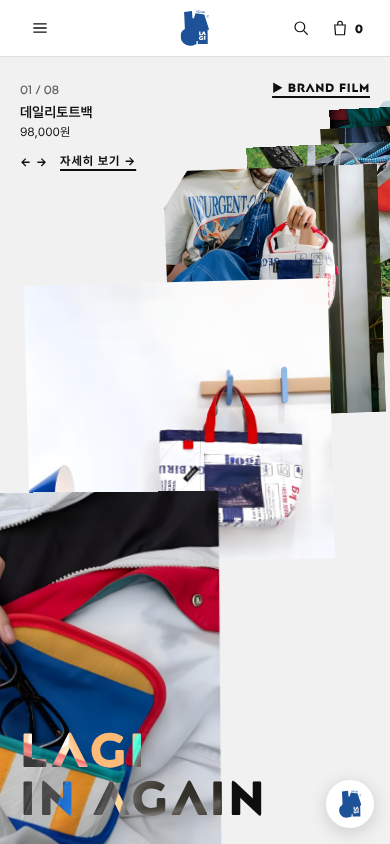
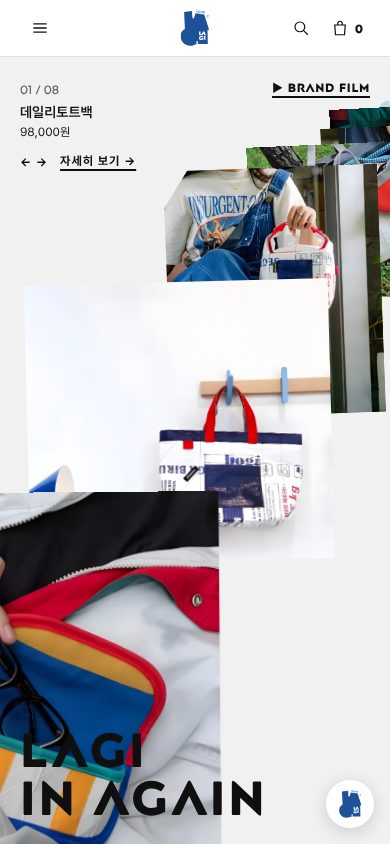
Home: brand intro motion before the page; plain black wordmark
On black, the eleven pieces of the LAGI emblem fly in and assemble into
the official mark, the letters cut in, 'LAGI in AGAIN' arrives, then a
tap (or Enter) lifts the black sheet to reveal the home page. Once per
visit; no motion with reduced-motion settings. The 'LAGI in AGAIN'
wordmark on the home page is now plain black instead of a difference
blend.

Claude-Session: https://claude.ai/code/session_015tYqeF95fcTMgYoMnwU8HY

Changed region(s): [[0.0615, 0.8626, 0.4615, 0.9858], [0.4615, 0.9242, 0.5846, 0.9858]]

diff --git a/src/v3/IntroMotion.tsx b/src/v3/IntroMotion.tsx
@@ -1,0 +1,111 @@
+import { useEffect, useState } from 'react';
+import { createPortal } from 'react-dom';
+import { EMBLEM_BODY, EMBLEM_CUTOUT, EMBLEM_VIEWBOX } from '@/components/logoPaths';
+
+const SEEN = 'lagi-intro-seen';
+
+/** Where each emblem piece flies in from (dx, dy in viewBox units, rotation) — spread around the mark. */
+const FROM = [
+  [-260, -180, -28],
+  [220, -210, 24],
+  [-300, 40, 18],
+  [280, 60, -22],
+  [-180, 260, 30],
+  [200, 250, -16],
+  [0, -300, 12],
+  [-320, -60, -36],
+  [320, -40, 32],
+  [-60, 300, -20],
+  [90, 320, 26],
+];
+
+// eslint-disable-next-line react-refresh/only-export-components
+export function introSeen() {
+  try {
+    return sessionStorage.getItem(SEEN) === '1';
+  } catch {
+    return false;
+  }
+}
+
+/**
+ * The brand motion before the home page: on black, the eleven pieces of the LAGI emblem fly in and
+ * assemble (the finished mark is the official emblem, unaltered), the L Λ G I letters cut in, the
+ * line "LAGI in AGAIN" arrives, then a tap anywhere lifts the black sheet to reveal the home page.
+ * Shown once per visit.
+ */
+export function IntroMotion({ onDone }: { onDone: () => void }) {
+  const [leaving, setLeaving] = useState(false);
+  const [ready, setReady] = useState(false);
+
+  useEffect(() => {
+    document.body.style.overflow = 'hidden';
+    const t = window.setTimeout(() => setReady(true), 2600);
+    return () => {
+      window.clearTimeout(t);
+      document.body.style.overflow = '';
+    };
+  }, []);
+
+  const enter = () => {
+    if (leaving) return;
+    setLeaving(true);
+    try {
+      sessionStorage.setItem(SEEN, '1');
+    } catch {
+      // private mode: the intro simply shows again next visit
+    }
+    window.setTimeout(onDone, 900);
+  };
+
+  useEffect(() => {
+    const onKey = (e: KeyboardEvent) => {
+      if (e.key === 'Enter' || e.key === ' ' || e.key === 'Escape') {
+        e.preventDefault();
+        enter();
+      }
+    };
+    window.addEventListener('keydown', onKey);
+    return () => window.removeEventListener('keydown', onKey);
+  });
+
+  return createPortal(
+    <div
+      className={`v3 intro fixed inset-0 z-[400] flex cursor-pointer select-none flex-col items-center justify-center bg-[#0b0b0b] text-white ${leaving ? 'intro-leave' : ''}`}
+      onClick={enter}
+      role="button"
+      tabIndex={0}
+      aria-label="LAGI — 화면을 눌러 시작하세요"
+      data-testid="intro"
+    >
+      <svg viewBox={EMBLEM_VIEWBOX} className="intro-mark h-[38vh] max-h-[340px] min-h-[180px] w-auto overflow-visible" aria-hidden="true">
+        {EMBLEM_BODY.map((d, i) => {
+          const [dx, dy, r] = FROM[i % FROM.length];
+          return (
+            <path
+              key={d}
+              d={d}
+              fill="#1d5198"
+              className="intro-piece"
+              style={{ '--dx': `${dx}px`, '--dy': `${dy}px`, '--r': `${r}deg`, animationDelay: `${120 + i * 70}ms` } as React.CSSProperties}
+            />
+          );
+        })}
+        {/* The letters are cut out of the mark; on black, drawing them in the background colour is the same cut. */}
+        {EMBLEM_CUTOUT.map((d, i) => (
+          <path key={d} d={d} fill="#0b0b0b" className="intro-cut" style={{ animationDelay: `${1350 + i * 140}ms` }} />
+        ))}
+      </svg>
+      <p className="t-h1 t-mark intro-line mt-8 text-white" style={{ animationDelay: '1900ms' }}>
+        LAGI in AGAIN
+      </p>
+      <p className="t-caption kr intro-line mt-2 text-white/70" style={{ animationDelay: '2150ms' }}>
+        다시 쓰임을 얻은 물건들을 발견하고 소개합니다
+      </p>
+      <p className={`t-label t-mark absolute bottom-10 text-white transition-opacity duration-700 ${ready ? 'intro-hint opacity-100' : 'opacity-0'}`}>
+        화면을 눌러 시작하세요 · Click to enter
+      </p>
+    </div>,
+    document.body,
+  );
+}

diff --git a/src/v3/pages/Home.tsx b/src/v3/pages/Home.tsx
@@ -2,6 +2,7 @@ import { useState } from 'react';
 import { Link } from 'react-router-dom';
 import { CurvedGallery } from '../CurvedGallery';
 import { BrandFilmOverlay } from '../BrandFilm';
+import { IntroMotion, introSeen } from '../IntroMotion';
 import { OFFICIAL_LINKS, useImageRatios, useRealProducts } from '../data';
 import { ProductCard, cleanImage } from '../ProductCard';
 
@@ -29,6 +30,8 @@ export default function Home() {
   const ratios = useImageRatios(products);
   const ready = products.length > 0 && products.every((p) => ratios[p.id]);
   const [film, setFilm] = useState(false);
+  // The brand motion plays once per visit before the home page.
+  const [intro, setIntro] = useState(() => !introSeen());
   const byId = (id: string) => products.find((p) => p.id === id);
   const archive = [
     { to: '/why', en: 'Why LAGI', kr: '라기가 제품을 고르는 네 가지 기준', img: byId('plano-bag')?.images[0], tone: 'photo' },
@@ -38,6 +41,7 @@ export default function Home() {
 
   return (
     <div>
+      {intro && <IntroMotion onDone={() => setIntro(false)} />}
       {/* 1 · The curved gallery, one screen (vertical scroll moves the page; drag sideways to turn it). */}
       <section className="relative h-[100svh] overflow-hidden bg-[var(--c-gray)]" aria-label="LAGI 제품 갤러리">
         {ready && <CurvedGallery products={products} ratios={ratios} pageScroll />}
@@ -46,8 +50,8 @@ export default function Home() {
           ▶ Brand film
         </button>
         {film && <BrandFilmOverlay onClose={() => setFilm(false)} />}
-        <div className="pointer-events-none absolute bottom-6 left-[var(--page-x)] z-[150] mix-blend-difference">
-          <h1 className="t-display t-mark text-white">
+        <div className="pointer-events-none absolute bottom-6 left-[var(--page-x)] z-[150]">
+          <h1 className="t-display t-mark text-[var(--c-ink)]">
             LAGI
             <br />
             in AGAIN

diff --git a/src/v3/tokens.css b/src/v3/tokens.css
@@ -153,3 +153,21 @@
   :where(.v3 .tap) { display: inline-block; }
   .v3 .tap { padding-top: 10px; padding-bottom: 10px; }
 }
+
+/* Brand intro (home): emblem pieces assemble on black, the letters cut in, a tap lifts the sheet. */
+@keyframes intro-piece { from { opacity: 0; transform: translate(var(--dx), var(--dy)) rotate(var(--r)) scale(0.7); } to { opacity: 1; transform: none; } }
+@keyframes intro-cut { from { opacity: 0; } to { opacity: 1; } }
+@keyframes intro-line { from { opacity: 0; transform: translateY(14px); letter-spacing: 0.3em; } to { opacity: 1; transform: none; } }
+@keyframes intro-hint { 0%, 100% { opacity: 0.45; } 50% { opacity: 1; } }
+@keyframes intro-leave { to { transform: translateY(-100%); } }
+@keyframes intro-mark-leave { to { transform: scale(1.12); opacity: 0; } }
+.v3 .intro-piece { transform-box: fill-box; transform-origin: center; opacity: 0; animation: intro-piece 1100ms var(--ease-out) both; }
+.v3 .intro-cut { opacity: 0; animation: intro-cut 500ms linear both; }
+.v3 .intro-line { opacity: 0; animation: intro-line 900ms var(--ease-out) both; }
+.v3 .intro-hint { animation: intro-hint 1.8s ease-in-out infinite; }
+.v3.intro-leave { animation: intro-leave 900ms var(--ease-in-out) both; }
+.v3.intro-leave .intro-mark { animation: intro-mark-leave 600ms var(--ease-out) both; }
+@media (prefers-reduced-motion: reduce) {
+  .v3 .intro-piece, .v3 .intro-cut, .v3 .intro-line { animation: none; opacity: 1; }
+  .v3.intro-leave { animation: none; opacity: 0; }
+}
